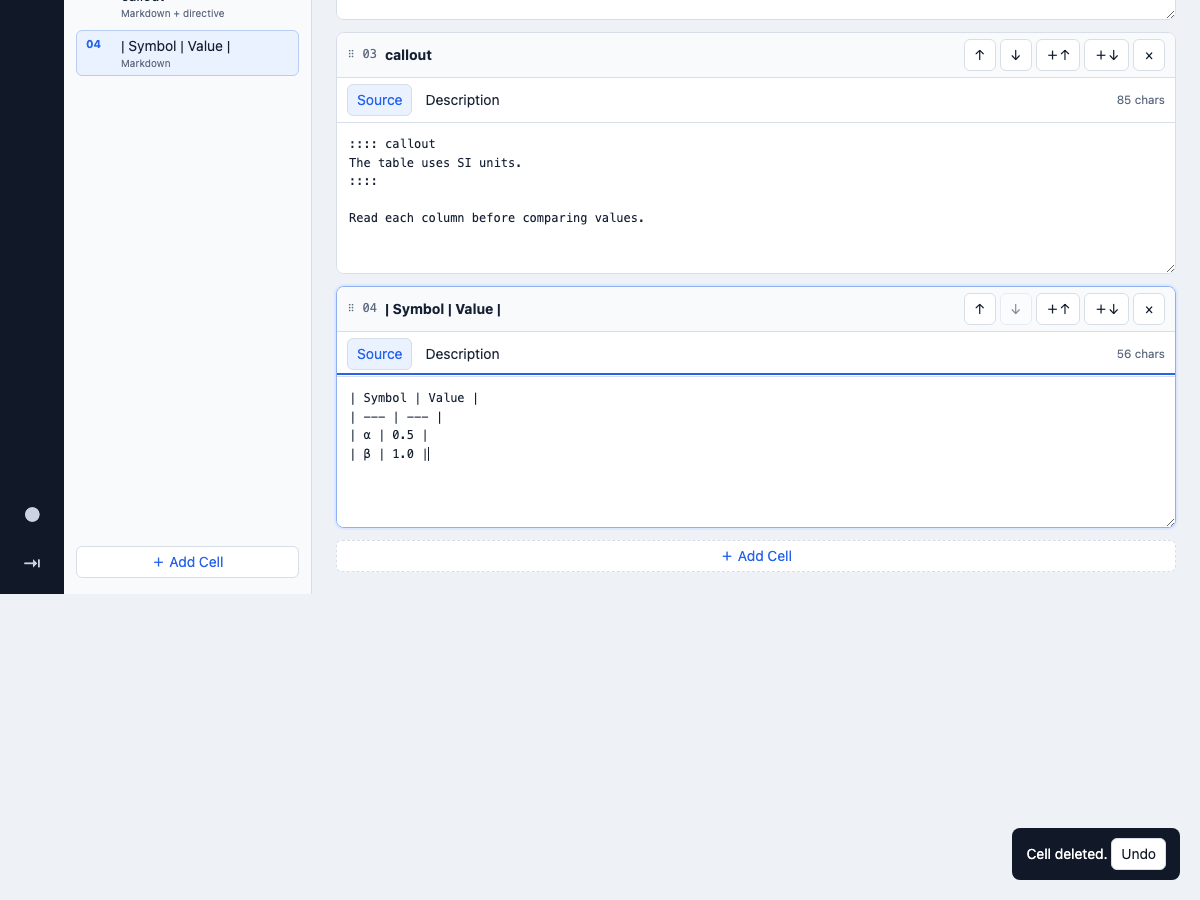
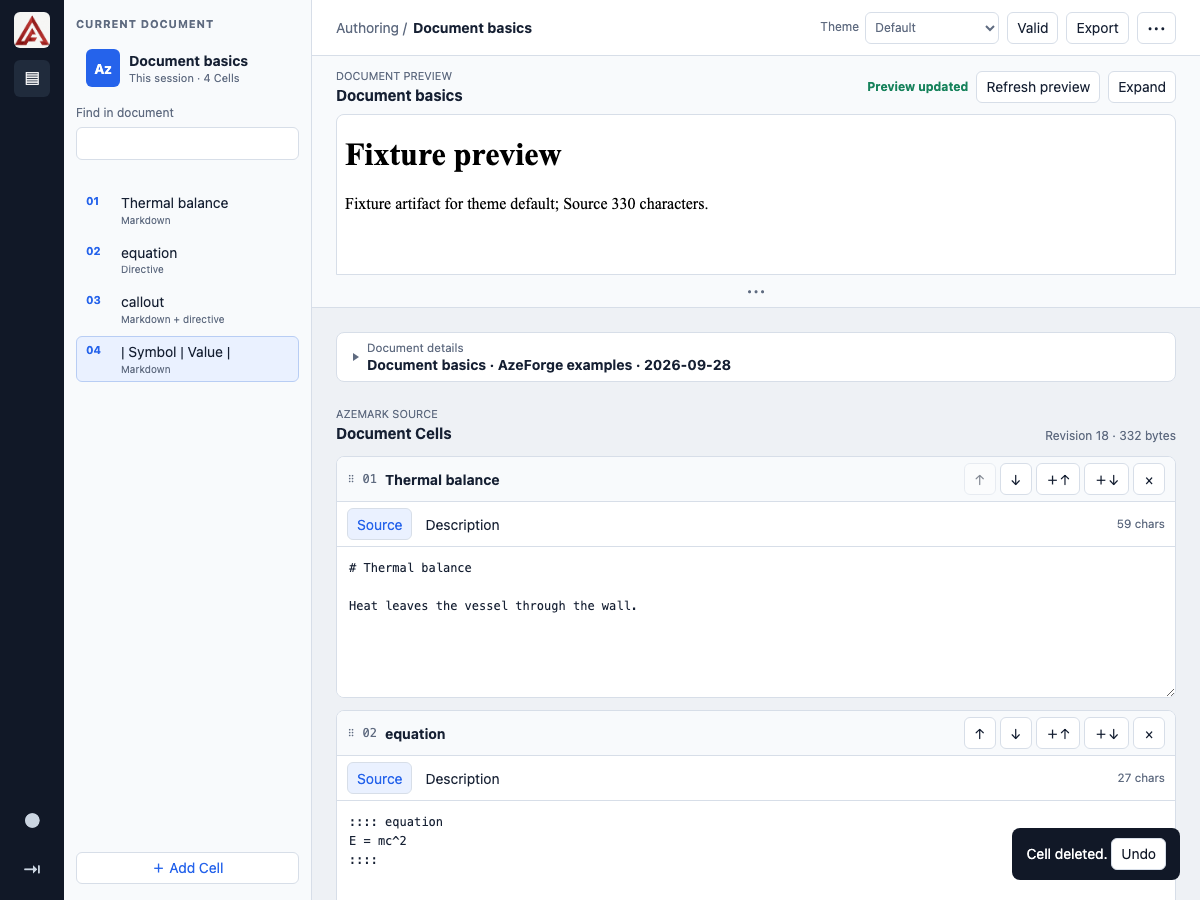
Keep Document details one row until the author needs it (#31)
Collapsed, the section is a single 48px summary row carrying title, first
author, and date, down from 82px: the native list-item marker's line box
was most of the height, so the summary is a flex row with a triangle
marker of its own. It starts expanded only for a document with no
metadata (the hasMetadata predicate, unit-tested) and never re-collapses
under an author who is editing it. The audit now asserts that row, the
author's open state surviving an edit, and a focus-visibility rule that
matches WCAG 2.4.11/2.4.13 rather than an element's whole box fitting
above the fold; captures are framed from the top of the workspace.

diff --git a/src/web/app.css b/src/web/app.css
@@ -1,4 +1,4 @@
-:root{color-scheme:light;--nav:#111827;--nav-raised:#202b3c;--canvas:#eef1f5;--surface:#fff;--line:#d7dee8;--text:#162033;--muted:#5f6b80;--accent:#2563eb;--accent-soft:#eaf1ff;--success:#16825b;--stale:#9a530f;--error:#b42318;--focus:#8eb0ed;--space-1:4px;--space-2:8px;--space-3:12px;--space-4:16px;--space-5:24px;--space-6:32px;--radius-control:6px;--radius-panel:8px;--z-sticky:10;--z-scrim:20;--z-panel:30;--z-modal:40;--z-status:50;font:14px/1.4 ui-sans-serif,-apple-system,BlinkMacSystemFont,"Segoe UI",sans-serif;color:var(--text)}*{box-sizing:border-box}html,body{height:100%;margin:0}body{overflow:hidden;background:var(--canvas)}button,input,textarea,select{font:inherit;color:inherit}button,select,input,textarea{border:1px solid var(--line);border-radius:var(--radius-control);background:var(--surface)}button{min-width:32px;min-height:32px;padding:5px 9px;cursor:pointer}button:disabled{opacity:.5;cursor:not-allowed}:focus-visible{outline:2px solid var(--accent);outline-offset:2px}.skip-link{position:fixed;z-index:100;left:8px;top:8px;transform:translateY(-160%);padding:8px 12px;background:var(--surface);color:var(--accent)}.skip-link:focus{transform:none}.visually-hidden{position:absolute!important;width:1px;height:1px;padding:0;margin:-1px;overflow:hidden;clip:rect(0,0,0,0);white-space:nowrap;border:0}.workspace{display:grid;grid-template-columns:64px 248px minmax(0,1fr);height:100%;overflow:hidden}.app-rail{display:flex;flex-direction:column;align-items:center;gap:12px;padding:12px 8px;background:var(--nav);color:#fff}.app-rail img{border-radius:6px}.rail-destination{border-color:transparent;background:transparent;color:#cbd5e1;font-size:18px}.rail-destination[aria-current]{background:var(--nav-raised);color:#fff}.rail-spacer{flex:1}.document-nav{display:flex;min-width:0;flex-direction:column;padding:16px 12px;border-right:1px solid var(--line);background:#f8fafc;overflow:auto}.document-nav>header{display:flex;align-items:center;justify-content:space-between}.document-nav>header p{margin:0;color:var(--muted);font-size:11px;font-weight:700;letter-spacing:.08em;text-transform:uppercase}.document-nav>header button{display:none}.document-row{display:flex;align-items:center;gap:9px;margin:12px 0;text-align:left;border-color:transparent;background:transparent}.document-row span:last-child{min-width:0}.document-row strong,.document-row small{display:block;overflow:hidden;text-overflow:ellipsis;white-space:nowrap}.document-row small,.small-status{color:var(--muted);font-size:11px}.document-mark{display:grid;place-items:center;flex:none;width:34px;height:38px;border-radius:6px;background:var(--accent);color:#fff;font-weight:700}.search{display:grid;gap:5px;color:var(--muted);font-size:12px}.search input{width:100%;padding:7px}.small-status{min-height:1.2em;margin:7px 0}.cell-list{display:grid;gap:4px;overflow:auto}.cell-list button{display:grid;grid-template-columns:28px minmax(0,1fr);gap:7px;width:100%;text-align:left;border-color:transparent;background:transparent}.cell-list button[aria-current=true]{border-color:#b8cdf4;background:var(--accent-soft)}.cell-list b{color:var(--accent);font-size:11px}.cell-list span,.cell-list small{display:block;overflow:hidden;text-overflow:ellipsis;white-space:nowrap}.cell-list small{color:var(--muted);font-size:10px}.add-cell{margin-top:auto;color:var(--accent)}#main-workspace{display:flex;min-width:0;min-height:0;flex-direction:column;overflow:auto;scroll-padding-block:20px}.utility-bar{position:sticky;z-index:var(--z-sticky);top:0;display:flex;align-items:center;flex:none;height:56px;padding:0 24px;border-bottom:1px solid var(--line);background:var(--surface)}.utility-identity{display:flex;gap:6px}.utility-identity span{color:var(--muted)}.document-trigger{display:none}.utility-actions{display:flex;align-items:center;gap:8px;margin-left:auto}.utility-actions label{display:flex;align-items:center;gap:6px;color:var(--muted);font-size:12px}.utility-actions select{min-height:32px;padding:5px}.menu{position:fixed;z-index:var(--z-panel);top:50px;right:55px;display:grid;min-width:180px;padding:6px;border:1px solid var(--line);border-radius:8px;background:var(--surface);box-shadow:0 12px 30px #0e182a33}.menu[hidden],#preview-placeholder[hidden],#preview[hidden]{display:none}.menu button{text-align:left;border-color:transparent}.more-menu{right:18px}.document-preview{display:flex;flex:none;flex-direction:column;height:var(--preview-height,28vh);min-height:180px;max-height:60vh;padding:12px 24px 0;border-bottom:1px solid var(--line);background:#f8fafc}.document-preview>header{display:flex;align-items:center;justify-content:space-between;gap:12px;margin-bottom:8px}.document-preview p,.canvas-heading p{margin:0;color:var(--muted);font-size:11px;text-transform:uppercase}.document-preview h1,.canvas-heading h2{margin:2px 0 0;font-size:15px}.preview-actions{display:flex;align-items:center;gap:8px}.preview-actions strong{color:var(--muted);font-size:12px}.preview-actions strong[data-state=stale]{color:var(--stale)}.preview-actions strong[data-state=current]{color:var(--success)}.preview-actions strong[data-state=failed],.preview-actions strong[data-state=blocked]{color:var(--error)}.preview-frame{display:grid;place-items:center;min-height:0;flex:1;overflow:hidden;border:1px solid var(--line);border-radius:8px 8px 0 0;background:#e7ebf0}.preview-frame iframe{width:100%;height:100%;border:0;background:white}.preview-frame p{max-width:36rem;padding:16px;text-align:center;text-transform:none;color:var(--text)}.preview-separator{display:grid;place-items:center;height:32px;cursor:ns-resize;color:var(--muted)}.cell-canvas{width:min(100%,968px);margin:0 auto;padding:24px}.document-details{border:1px solid var(--line);border-radius:8px;background:var(--surface)}.document-details summary{padding:12px 16px;cursor:pointer}.document-details summary small,.document-details summary strong{display:block}.document-details summary small{color:var(--muted)}.details-fields{display:grid;grid-template-columns:2fr 1fr 1fr;gap:12px;padding:0 16px 16px}.details-fields label{display:grid;gap:4px;color:var(--muted);font-size:12px}.details-fields input,.details-fields textarea{width:100%;padding:7px}.details-fields .metadata{grid-column:1/-1}.canvas-heading{display:flex;align-items:end;justify-content:space-between;margin:24px 0 12px}.canvas-heading span{color:var(--muted);font-size:12px}.notebook-cells{display:grid;gap:12px}.cell{border:1px solid var(--line);border-radius:8px;background:var(--surface);overflow:hidden}.cell:focus-within,.cell[data-active=true]{border-color:var(--focus);box-shadow:0 0 0 2px #dce8ff}.cell>header{display:flex;align-items:center;justify-content:space-between;min-height:44px;padding:6px 10px;border-bottom:1px solid var(--line);background:#f8fafc}.cell-heading{display:flex;gap:8px;align-items:center}.cell-heading span{color:var(--muted);font:12px ui-monospace,SFMono-Regular,Menlo,monospace}.cell-actions{display:flex;gap:4px}.editor-tabs{display:flex;align-items:center;gap:3px;padding:6px 10px;border-bottom:1px solid var(--line)}.editor-tabs button{border-color:transparent;background:transparent}.editor-tabs button[aria-selected=true]{border-color:var(--line);background:var(--accent-soft);color:var(--accent)}.editor-tabs small{margin-left:auto;color:var(--muted)}.cell textarea{display:block;width:100%;min-height:150px;padding:12px;border:0;border-radius:0;resize:vertical;font:12px/1.55 ui-monospace,SFMono-Regular,Menlo,monospace}.description-panel{padding:12px}.description-panel textarea{border:1px solid var(--line);border-radius:6px}.description-actions{display:flex;justify-content:flex-end;gap:8px;margin-top:8px}.proposal{padding:12px;border-top:1px solid #efcc9f;background:#fff8ed}.proposal textarea{margin-top:8px;border:1px solid #efcc9f}.proposal footer{display:flex;justify-content:flex-end;gap:8px;margin-top:8px}.proposal-diagnostics{margin:8px 0 0;padding-left:18px}.proposal-diagnostics li{margin:2px 0}.proposal-diagnostics li[data-severity=error] strong{color:var(--error)}.proposal-diagnostics li[data-severity=warning] strong{color:var(--stale)}.cell-insert{width:100%;border-style:dashed;color:var(--accent)}.add-cell-bottom{width:100%;margin-top:12px;border-style:dashed;color:var(--accent)}.diagnostics-panel{position:fixed;z-index:var(--z-panel);right:0;top:56px;bottom:0;width:min(390px,42vw);padding:16px;border-left:1px solid var(--line);background:var(--surface);box-shadow:-8px 0 30px #0e182a22;overflow:auto}.diagnostics-panel>header{display:flex;justify-content:space-between}.diagnostics-panel h2{margin:3px 0;font-size:16px}.diagnostic{padding:10px;border-left:3px solid var(--line);background:#f8fafc}.diagnostic[data-severity=error]{border-color:var(--error)}.diagnostic[data-severity=warning]{border-color:var(--stale)}.drawer-scrim{display:none}.undo-bar{position:fixed;z-index:var(--z-status);right:20px;bottom:20px;padding:10px 14px;border-radius:8px;background:var(--nav);color:white}.undo-bar button{color:var(--nav)}.preview-dialog{width:min(96vw,1200px);height:92vh;padding:0;border:0;border-radius:8px}.preview-dialog::backdrop,.proposal-dialog::backdrop,dialog::backdrop{background:#0f172a99}.preview-dialog header{display:flex;align-items:center;gap:12px;padding:10px 14px}.preview-dialog header strong{margin-left:auto}.preview-dialog iframe{width:100%;height:calc(100% - 58px);border:0}.proposal-dialog{width:min(900px,92vw)}.proposal-dialog header,.proposal-dialog footer{display:flex;justify-content:space-between;gap:8px}.proposal-dialog textarea{width:100%;height:55vh;font:12px/1.5 ui-monospace,SFMono-Regular,Menlo,monospace}.gate{position:fixed;z-index:var(--z-modal);inset:0;display:grid;place-items:center;padding:16px;background:var(--nav)}.gate[hidden]{display:none}.gate-card{display:grid;gap:12px;width:min(420px,100%);padding:28px;border-radius:8px;background:var(--surface)}.gate-card h1,.gate-card p{margin:0}.gate-card label{display:grid;gap:5px}.gate-card input{padding:8px}.error{color:var(--error)}.field-feedback{color:var(--error);font-size:11px}.cell textarea,.cell input,.cell button,.cell-list button,.details-fields input,.details-fields textarea,.utility-actions button,.utility-actions select,.document-preview button{scroll-margin-block:24px}
+:root{color-scheme:light;--nav:#111827;--nav-raised:#202b3c;--canvas:#eef1f5;--surface:#fff;--line:#d7dee8;--text:#162033;--muted:#5f6b80;--accent:#2563eb;--accent-soft:#eaf1ff;--success:#16825b;--stale:#9a530f;--error:#b42318;--focus:#8eb0ed;--space-1:4px;--space-2:8px;--space-3:12px;--space-4:16px;--space-5:24px;--space-6:32px;--radius-control:6px;--radius-panel:8px;--z-sticky:10;--z-scrim:20;--z-panel:30;--z-modal:40;--z-status:50;font:14px/1.4 ui-sans-serif,-apple-system,BlinkMacSystemFont,"Segoe UI",sans-serif;color:var(--text)}*{box-sizing:border-box}html,body{height:100%;margin:0}body{overflow:hidden;background:var(--canvas)}button,input,textarea,select{font:inherit;color:inherit}button,select,input,textarea{border:1px solid var(--line);border-radius:var(--radius-control);background:var(--surface)}button{min-width:32px;min-height:32px;padding:5px 9px;cursor:pointer}button:disabled{opacity:.5;cursor:not-allowed}:focus-visible{outline:2px solid var(--accent);outline-offset:2px}.skip-link{position:fixed;z-index:100;left:8px;top:8px;transform:translateY(-160%);padding:8px 12px;background:var(--surface);color:var(--accent)}.skip-link:focus{transform:none}.visually-hidden{position:absolute!important;width:1px;height:1px;padding:0;margin:-1px;overflow:hidden;clip:rect(0,0,0,0);white-space:nowrap;border:0}.workspace{display:grid;grid-template-columns:64px 248px minmax(0,1fr);height:100%;overflow:hidden}.app-rail{display:flex;flex-direction:column;align-items:center;gap:12px;padding:12px 8px;background:var(--nav);color:#fff}.app-rail img{border-radius:6px}.rail-destination{border-color:transparent;background:transparent;color:#cbd5e1;font-size:18px}.rail-destination[aria-current]{background:var(--nav-raised);color:#fff}.rail-spacer{flex:1}.document-nav{display:flex;min-width:0;flex-direction:column;padding:16px 12px;border-right:1px solid var(--line);background:#f8fafc;overflow:auto}.document-nav>header{display:flex;align-items:center;justify-content:space-between}.document-nav>header p{margin:0;color:var(--muted);font-size:11px;font-weight:700;letter-spacing:.08em;text-transform:uppercase}.document-nav>header button{display:none}.document-row{display:flex;align-items:center;gap:9px;margin:12px 0;text-align:left;border-color:transparent;background:transparent}.document-row span:last-child{min-width:0}.document-row strong,.document-row small{display:block;overflow:hidden;text-overflow:ellipsis;white-space:nowrap}.document-row small,.small-status{color:var(--muted);font-size:11px}.document-mark{display:grid;place-items:center;flex:none;width:34px;height:38px;border-radius:6px;background:var(--accent);color:#fff;font-weight:700}.search{display:grid;gap:5px;color:var(--muted);font-size:12px}.search input{width:100%;padding:7px}.small-status{min-height:1.2em;margin:7px 0}.cell-list{display:grid;gap:4px;overflow:auto}.cell-list button{display:grid;grid-template-columns:28px minmax(0,1fr);gap:7px;width:100%;text-align:left;border-color:transparent;background:transparent}.cell-list button[aria-current=true]{border-color:#b8cdf4;background:var(--accent-soft)}.cell-list b{color:var(--accent);font-size:11px}.cell-list span,.cell-list small{display:block;overflow:hidden;text-overflow:ellipsis;white-space:nowrap}.cell-list small{color:var(--muted);font-size:10px}.add-cell{margin-top:auto;color:var(--accent)}#main-workspace{display:flex;min-width:0;min-height:0;flex-direction:column;overflow:auto;scroll-padding-block:20px}.utility-bar{position:sticky;z-index:var(--z-sticky);top:0;display:flex;align-items:center;flex:none;height:56px;padding:0 24px;border-bottom:1px solid var(--line);background:var(--surface)}.utility-identity{display:flex;gap:6px}.utility-identity span{color:var(--muted)}.document-trigger{display:none}.utility-actions{display:flex;align-items:center;gap:8px;margin-left:auto}.utility-actions label{display:flex;align-items:center;gap:6px;color:var(--muted);font-size:12px}.utility-actions select{min-height:32px;padding:5px}.menu{position:fixed;z-index:var(--z-panel);top:50px;right:55px;display:grid;min-width:180px;padding:6px;border:1px solid var(--line);border-radius:8px;background:var(--surface);box-shadow:0 12px 30px #0e182a33}.menu[hidden],#preview-placeholder[hidden],#preview[hidden]{display:none}.menu button{text-align:left;border-color:transparent}.more-menu{right:18px}.document-preview{display:flex;flex:none;flex-direction:column;height:var(--preview-height,28vh);min-height:180px;max-height:60vh;padding:12px 24px 0;border-bottom:1px solid var(--line);background:#f8fafc}.document-preview>header{display:flex;align-items:center;justify-content:space-between;gap:12px;margin-bottom:8px}.document-preview p,.canvas-heading p{margin:0;color:var(--muted);font-size:11px;text-transform:uppercase}.document-preview h1,.canvas-heading h2{margin:2px 0 0;font-size:15px}.preview-actions{display:flex;align-items:center;gap:8px}.preview-actions strong{color:var(--muted);font-size:12px}.preview-actions strong[data-state=stale]{color:var(--stale)}.preview-actions strong[data-state=current]{color:var(--success)}.preview-actions strong[data-state=failed],.preview-actions strong[data-state=blocked]{color:var(--error)}.preview-frame{display:grid;place-items:center;min-height:0;flex:1;overflow:hidden;border:1px solid var(--line);border-radius:8px 8px 0 0;background:#e7ebf0}.preview-frame iframe{width:100%;height:100%;border:0;background:white}.preview-frame p{max-width:36rem;padding:16px;text-align:center;text-transform:none;color:var(--text)}.preview-separator{display:grid;place-items:center;height:32px;cursor:ns-resize;color:var(--muted)}.cell-canvas{width:min(100%,968px);margin:0 auto;padding:24px}.document-details{border:1px solid var(--line);border-radius:8px;background:var(--surface)}.document-details summary{display:flex;align-items:center;gap:8px;padding:8px 16px;cursor:pointer}.document-details summary::before{content:"";flex:none;width:0;height:0;border-left:6px solid var(--muted);border-top:4px solid transparent;border-bottom:4px solid transparent;transition:transform 120ms ease}.document-details[open] summary::before{transform:rotate(90deg)}.document-details summary span{display:block}.document-details summary small,.document-details summary strong{display:block;line-height:1.25}.document-details summary small{color:var(--muted)}.details-fields{display:grid;grid-template-columns:2fr 1fr 1fr;gap:12px;padding:0 16px 16px}.details-fields label{display:grid;gap:4px;color:var(--muted);font-size:12px}.details-fields input,.details-fields textarea{width:100%;padding:7px}.details-fields .metadata{grid-column:1/-1}.canvas-heading{display:flex;align-items:end;justify-content:space-between;margin:24px 0 12px}.canvas-heading span{color:var(--muted);font-size:12px}.notebook-cells{display:grid;gap:12px}.cell{border:1px solid var(--line);border-radius:8px;background:var(--surface);overflow:hidden}.cell:focus-within,.cell[data-active=true]{border-color:var(--focus);box-shadow:0 0 0 2px #dce8ff}.cell>header{display:flex;align-items:center;justify-content:space-between;min-height:44px;padding:6px 10px;border-bottom:1px solid var(--line);background:#f8fafc}.cell-heading{display:flex;gap:8px;align-items:center}.cell-heading span{color:var(--muted);font:12px ui-monospace,SFMono-Regular,Menlo,monospace}.cell-actions{display:flex;gap:4px}.editor-tabs{display:flex;align-items:center;gap:3px;padding:6px 10px;border-bottom:1px solid var(--line)}.editor-tabs button{border-color:transparent;background:transparent}.editor-tabs button[aria-selected=true]{border-color:var(--line);background:var(--accent-soft);color:var(--accent)}.editor-tabs small{margin-left:auto;color:var(--muted)}.cell textarea{display:block;width:100%;min-height:150px;padding:12px;border:0;border-radius:0;resize:vertical;font:12px/1.55 ui-monospace,SFMono-Regular,Menlo,monospace}.description-panel{padding:12px}.description-panel textarea{border:1px solid var(--line);border-radius:6px}.description-actions{display:flex;justify-content:flex-end;gap:8px;margin-top:8px}.proposal{padding:12px;border-top:1px solid #efcc9f;background:#fff8ed}.proposal textarea{margin-top:8px;border:1px solid #efcc9f}.proposal footer{display:flex;justify-content:flex-end;gap:8px;margin-top:8px}.proposal-diagnostics{margin:8px 0 0;padding-left:18px}.proposal-diagnostics li{margin:2px 0}.proposal-diagnostics li[data-severity=error] strong{color:var(--error)}.proposal-diagnostics li[data-severity=warning] strong{color:var(--stale)}.cell-insert{width:100%;border-style:dashed;color:var(--accent)}.add-cell-bottom{width:100%;margin-top:12px;border-style:dashed;color:var(--accent)}.diagnostics-panel{position:fixed;z-index:var(--z-panel);right:0;top:56px;bottom:0;width:min(390px,42vw);padding:16px;border-left:1px solid var(--line);background:var(--surface);box-shadow:-8px 0 30px #0e182a22;overflow:auto}.diagnostics-panel>header{display:flex;justify-content:space-between}.diagnostics-panel h2{margin:3px 0;font-size:16px}.diagnostic{padding:10px;border-left:3px solid var(--line);background:#f8fafc}.diagnostic[data-severity=error]{border-color:var(--error)}.diagnostic[data-severity=warning]{border-color:var(--stale)}.drawer-scrim{display:none}.undo-bar{position:fixed;z-index:var(--z-status);right:20px;bottom:20px;padding:10px 14px;border-radius:8px;background:var(--nav);color:white}.undo-bar button{color:var(--nav)}.preview-dialog{width:min(96vw,1200px);height:92vh;padding:0;border:0;border-radius:8px}.preview-dialog::backdrop,.proposal-dialog::backdrop,dialog::backdrop{background:#0f172a99}.preview-dialog header{display:flex;align-items:center;gap:12px;padding:10px 14px}.preview-dialog header strong{margin-left:auto}.preview-dialog iframe{width:100%;height:calc(100% - 58px);border:0}.proposal-dialog{width:min(900px,92vw)}.proposal-dialog header,.proposal-dialog footer{display:flex;justify-content:space-between;gap:8px}.proposal-dialog textarea{width:100%;height:55vh;font:12px/1.5 ui-monospace,SFMono-Regular,Menlo,monospace}.gate{position:fixed;z-index:var(--z-modal);inset:0;display:grid;place-items:center;padding:16px;background:var(--nav)}.gate[hidden]{display:none}.gate-card{display:grid;gap:12px;width:min(420px,100%);padding:28px;border-radius:8px;background:var(--surface)}.gate-card h1,.gate-card p{margin:0}.gate-card label{display:grid;gap:5px}.gate-card input{padding:8px}.error{color:var(--error)}.field-feedback{color:var(--error);font-size:11px}.cell textarea,.cell input,.cell button,.cell-list button,.details-fields input,.details-fields textarea,.utility-actions button,.utility-actions select,.document-preview button{scroll-margin-block:24px}
 @media(max-width:1199px){.workspace{grid-template-columns:56px minmax(0,1fr)}.app-rail{padding-inline:6px}.document-nav{position:fixed;z-index:var(--z-panel);left:56px;top:0;bottom:0;width:272px;transform:translateX(-110%);transition:transform 160ms ease;box-shadow:8px 0 30px #0e182a33}.workspace[data-nav-open=true] .document-nav{transform:none}.document-nav>header button{display:block}.drawer-scrim{position:fixed;z-index:var(--z-scrim);inset:0 0 0 56px;border:0;border-radius:0;background:#10182766}.workspace[data-nav-open=true] .drawer-scrim{display:block}.utility-bar{height:52px;padding:0 16px}.document-trigger{display:block}.utility-identity{display:none}.document-preview{height:var(--preview-height,30vh);min-height:160px;max-height:50vh;padding-inline:16px}.cell-canvas{padding:16px}.cell textarea{font-size:11px}.utility-bar button,.utility-bar select,.utility-bar input,.undo-bar button,.menu button,.utility-actions button,.utility-actions select,.utility-actions input,.document-nav button,.document-nav input,.cell button,.cell-list button,.cell-canvas button,.cell-canvas input,.cell-canvas textarea,.document-details input,.document-details textarea,.document-preview button,.app-rail button,.diagnostics-panel button,.skip-link{min-width:44px;min-height:44px}.preview-separator{height:44px}.diagnostics-panel{top:auto;left:56px;width:auto;height:min(55vh,520px);border-top:1px solid var(--line);border-left:0}}
 @media(max-width:520px){.workspace{grid-template-columns:1fr}.app-rail{display:none}.document-nav{left:0;width:min(90vw,320px)}.drawer-scrim{inset:0}.utility-bar{height:auto;min-height:52px;flex-wrap:wrap;padding:8px}.utility-actions{gap:4px}.utility-actions label{font-size:0}.utility-actions label select{font-size:12px}.document-preview{padding-inline:8px}.document-preview>header{align-items:flex-start;flex-direction:column}.preview-actions{width:100%;flex-wrap:wrap}.cell-canvas{padding:12px 8px}.details-fields{grid-template-columns:1fr}.details-fields .metadata{grid-column:auto}.cell>header{align-items:flex-start}.cell-actions{flex-wrap:wrap;justify-content:flex-end}.diagnostics-panel{left:0}.menu{right:8px}.document-trigger span{display:none}}
 @media(prefers-reduced-motion:reduce){*{scroll-behavior:auto!important;transition-duration:0s!important}}

diff --git a/src/web/app.js b/src/web/app.js
@@ -1,5 +1,5 @@
 // @ts-check
-import { createWorkspaceState, transition } from "./workspace-state.js";
+import { createWorkspaceState, hasMetadata, transition } from "./workspace-state.js";
 import { indexForPosition } from "./coordinates.js";
 import { splitFrontMatter, stripFrontMatter } from "./front-matter.js";
 
@@ -194,6 +194,15 @@ function updateChrome() {
   for (const id of ["nav-document-title", "utility-title", "desktop-title", "preview-title"]) byId(id).textContent = name;
   byId("details-summary").textContent = [name, model.document.authors[0], model.document.date].filter(Boolean).join(" · ");
   byId("document-session").textContent = `This session · ${model.cells.length} ${model.cells.length === 1 ? "Cell" : "Cells"}`;
+}
+
+/**
+ * Document details is one disclosure, not a form in the canvas: it opens for
+ * metadata that is still empty, and stays collapsed once the document carries
+ * meaningful metadata. Metadata diagnostics force it open as they arrive.
+ */
+function syncDetailsDisclosure() {
+  if (!hasMetadata(model.document)) el.details.open = true;
 }
 
 /** Source-changing document controls lock while a generation owns the document. */
@@ -1367,6 +1376,7 @@ async function enter() {
     el.gate.hidden = true;
     el.workspace.hidden = false;
     renderAll();
+    syncDetailsDisclosure();
     if (sessionStorage.getItem("azeweb.diagnosticsOpen") === "true") openDiagnostics();
   } catch (error) {
     sessionStorage.removeItem(TOKEN_KEY);

diff --git a/src/web/workspace-state.js b/src/web/workspace-state.js
@@ -67,6 +67,18 @@ export function emptyDocument() {
 }
 
 /**
+ * Whether the Current document carries metadata worth showing: Document details
+ * starts expanded for a document that does not, and collapsed once it does.
+ * @param {CurrentDocument} document
+ */
+export function hasMetadata(document) {
+  return document.title.trim() !== ""
+    || document.authors.length > 0
+    || document.date.trim() !== ""
+    || document.metadata.trim() !== "";
+}
+
+/**
  * @param {Cell[]} cells
  * @param {string} [theme]
  * @param {CurrentDocument} [document]

diff --git a/docs/ui/authoring-workspace-redesign.md b/docs/ui/authoring-workspace-redesign.md
@@ -127,7 +127,7 @@ Text meets 4.5:1 contrast at normal sizes. Large text, meaningful graphics, and 
 
 **Purpose, anatomy, and inputs.** A collapsible named section below preview owns title, authors, date, and additional metadata. It receives Current document front matter and authoritative metadata diagnostics.
 
-**States, actions, disabled rules, and failures.** It is expanded for empty or invalid metadata and collapses by default after meaningful metadata exists. The Current document row expands it. Metadata diagnostics auto-expand it. Invalid fields expose local programmatic invalid state, concise described feedback, and the matching diagnostics entry; they do not block unrelated navigation.
+**States, actions, disabled rules, and failures.** Collapsed, it is a single summary row (measured at 48 px) that already carries title, first author, and date, so the section costs one row of the canvas rather than a form. It starts expanded only for a document that carries no metadata at all, and collapses by default once meaningful metadata exists; the author's own open or closed choice is theirs while editing, and only a metadata diagnostic forces it open. The Current document row expands it. Invalid fields expose local programmatic invalid state, concise described feedback, and the matching diagnostics entry; they do not block unrelated navigation.
 
 **Focus, keyboard, announcements, responsive.** A standard disclosure controls the section. Exact diagnostic activation focuses the metadata field or Source range. The section remains above Cells at every width. Related IDs: DOC-01, A11Y-01, A11Y-02.
 
@@ -244,7 +244,7 @@ The traceability table covers every closed child listed by wayfinder #14. Later 
 
 ## Observed evidence
 
-Recorded 2026-09-28 by `npm run workspace` against the real service with the specification's fixture worker, driven through the deployment's pinned `chrome-headless-shell` 152.0.7977.75. The record is `acceptance/workspace/2026-09-28T11-09-33-619Z-pass.{json,txt}`; the captures are the files listed above. Every row below is what was observed, not what was planned, and each cites the check that owns it.
+Recorded 2026-09-28 by `npm run workspace` against the real service with the specification's fixture worker, driven through the deployment's pinned `chrome-headless-shell` 152.0.7977.75. The record is `acceptance/workspace/2026-09-28T12-01-22-547Z-pass.{json,txt}`; the captures are the files listed above. Every row below is what was observed, not what was planned, and each cites the check that owns it.
 
 | ID | Observation |
 | --- | --- |
@@ -263,14 +263,14 @@ Recorded 2026-09-28 by `npm run workspace` against the real service with the spe
 | PREVIEW-03 | A refresh over an invalid document reported `Preview blocked by Source errors` and kept the previous Artifact visible with the `View diagnostics` recovery. |
 | PREVIEW-04 | Separator keyboard sizing moved from 252 px through `Home` 180 px and `End` 540 px to 524 px, all from one clamp, with the divider focused by Tab. |
 | PREVIEW-05 | The expanded dialog shared the Artifact with the inline frame and contained focus; Escape restored `#refresh-preview`. |
-| DOC-01 | A metadata diagnostic expanded Document details, marked the Date field `aria-invalid` with described feedback, and activating its entry focused that field. |
+| DOC-01 | Meaningful metadata left Document details collapsed to a 48 px summary row that stays open while its fields are edited; a metadata diagnostic expanded it, marked the Date field `aria-invalid` with described feedback, and activating its entry focused that field. The empty-document expansion rule is the reducer suite's `hasMetadata` predicate. |
 | DOC-02 | A warning-only analysis left the dock closed while updating the summary; the trigger opened the dock with heading focus; Tab left the non-modal dock; Escape closed it and restored the trigger. In the stress fixture, 40 diagnostics rendered grouped 16 error · 16 warning · 8 information, and activating the first error focused Cell 1's Source at offset 0 with the dock open and unobscured. |
 | FORMAT-01 | Format opened a compiler-labelled `Formatted Source` review with focus inside and the Source untouched; Escape applied nothing and restored the invoking control; Apply replaced the Source and focused it. No AI labelling exists in the review. |
 | EXPORT-01 | Export offers the four capability-advertised formats; the chosen item shows progress and completion, and its compile request carried the current Source (330 characters) and the current Theme (omitted, as the protocol does for the default) in the chosen format — with a preview Artifact loaded and unrelated to the request. |
 | EXPORT-02 | With the error fixture the chosen item read `HTML — failed`, diagnostics were revealed, no bytes downloaded, and focus stayed on the Export trigger. |
 | SERVICE-01 | The rail health button carries its state in its accessible name (`Service details: healthy`), and activating it opens progressively disclosed compiler, protocol, authoring, and renderer-remedy details with focus inside and Escape restoring the trigger. |
 | A11Y-01 | axe-core reported 0 violations across the WCAG 2.0/2.1/2.2 A+AA tags (105 rules) at 1440x900, 768x1024, 320x800, and on the 30-Cell stress fixture. Measured independently: 115 visible text nodes with a lowest ratio of 4.56:1, the `--accent` focus indicator at 4.06:1 on the workspace surface and 4.56:1 on the canvas (1.4.11), interaction boxes all ≥ 32 px (desktop) / 44 px (tablet) / 24 px (reflow), `prefers-reduced-motion: reduce` collapsing the drawer transition to `0s` with `scroll-behavior: auto`, and forced colors giving the rail Canvas/CanvasText with 1 px system borders. Menus opened on their first enabled item, moved with arrows, Home, End — wrapping at both ends — and Escape restored each exact trigger with `aria-expanded="false"`. |
-| A11Y-02 | One pass of Tab reached 49 distinct controls in order with a visible, unclipped focus indication at every stop, left the document only at the end, and re-entered at the first skip link. Each essential workflow completed keyboard-only — activation by Tab-reached Enter or Space, or by focus followed by a keyboard event where the tab order does not reach the control — with focus retained by its initiating surface. |
+| A11Y-02 | One pass of Tab reached 49 distinct controls in order, every one with a visible focus indicator and a substantial visible portion (two sat below the fold and the browser scrolled them into view), left the document only at the end, and re-entered at the first skip link. Each essential workflow completed keyboard-only — activation by Tab-reached Enter or Space, or by focus followed by a keyboard event where the tab order does not reach the control — with focus retained by its initiating surface. |
 
 ### Evidence gaps
 
